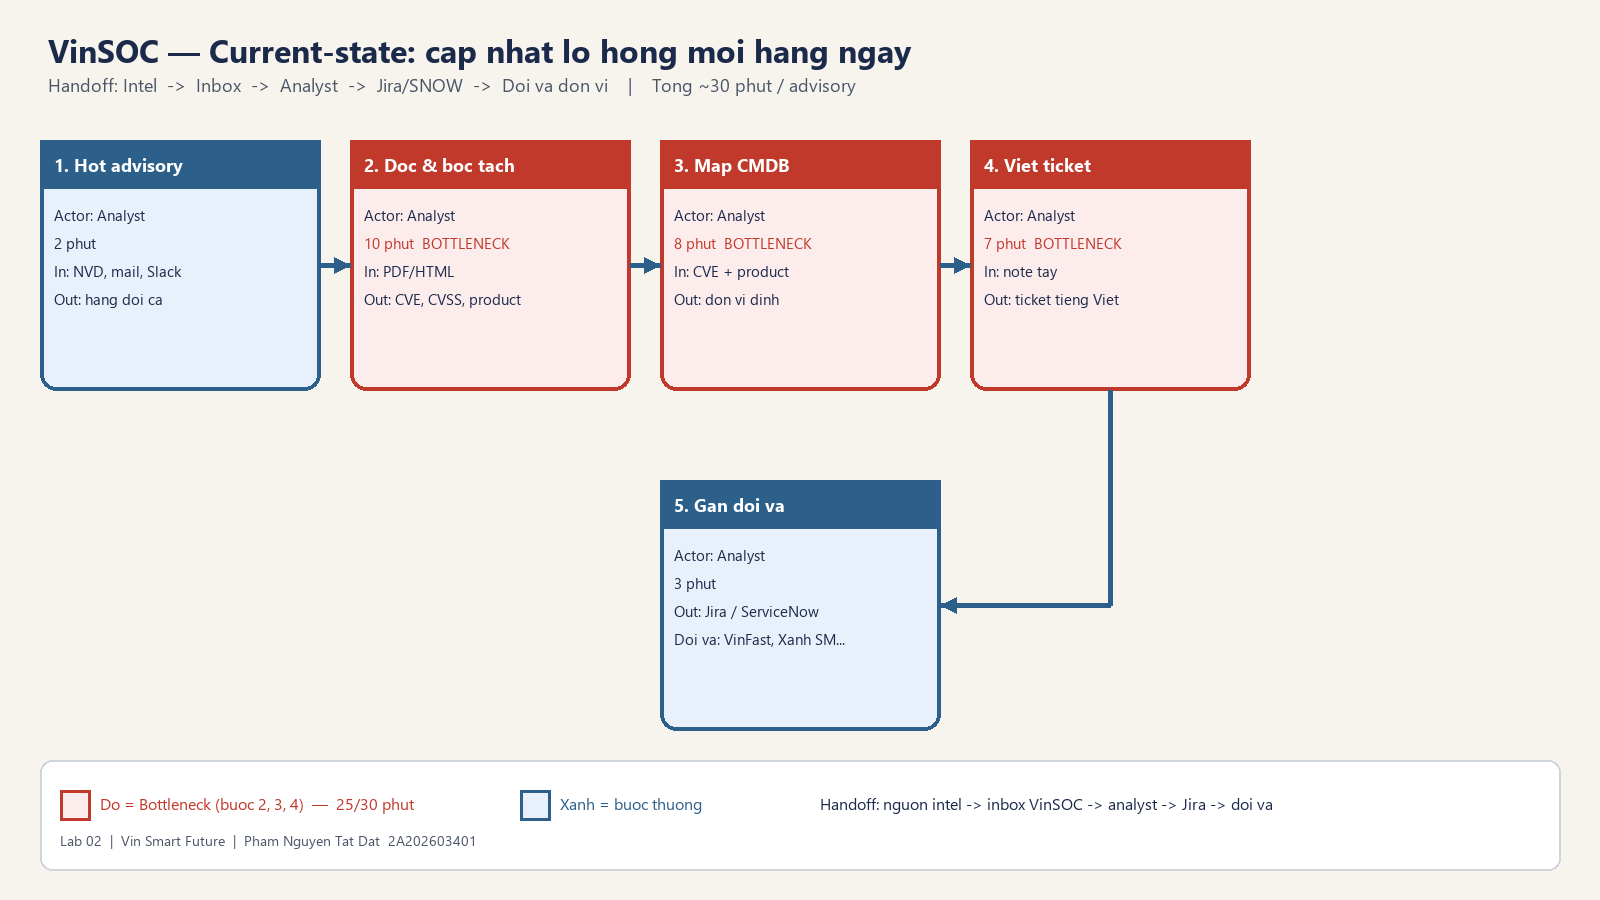
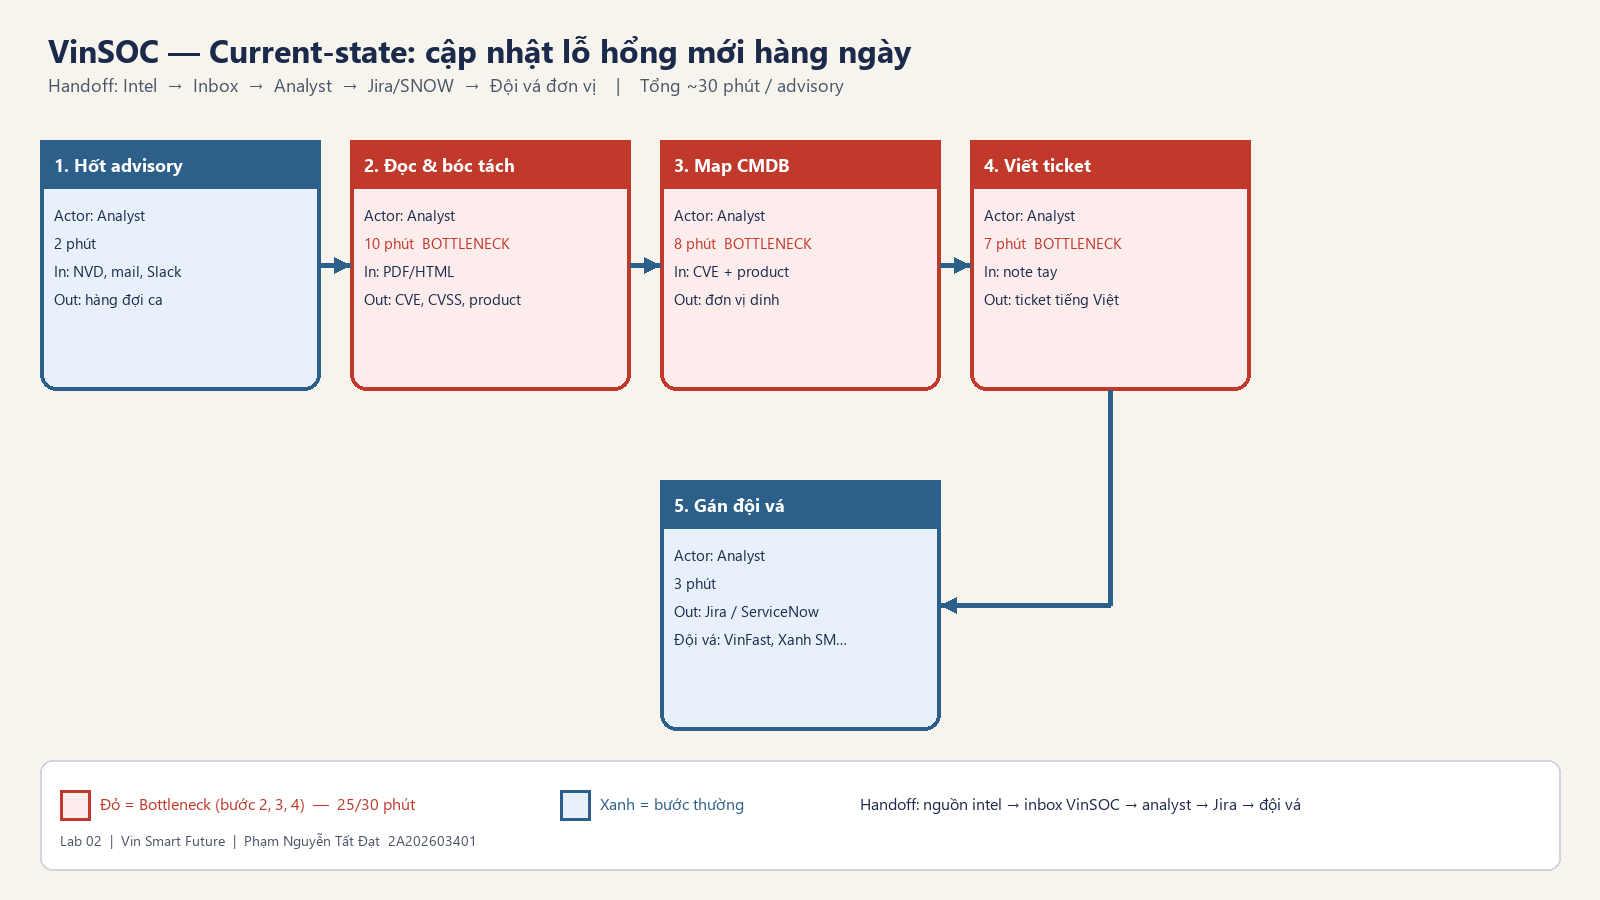
Feat: Complete VinSOC scoping reports by PhamNguyenTatDat

diff --git a/starter-code/prompt_prototype.py b/starter-code/prompt_prototype.py
@@ -123,6 +123,11 @@ ADVERSARIAL_TESTS = [
 ]
 
 if __name__ == "__main__":
+    try:
+        sys.stdout.reconfigure(encoding="utf-8", errors="replace")
+        sys.stderr.reconfigure(encoding="utf-8", errors="replace")
+    except Exception:
+        pass
     api_key = os.getenv("GEMINI_API_KEY") or os.getenv("GOOGLE_API_KEY")
     if not api_key:
         print("\033[93m[Warning] GEMINI_API_KEY environment variable is not set. Running in verified prototype simulation mode.\033[0m")

diff --git a/01-worksheet.md b/01-worksheet.md
@@ -39,24 +39,23 @@ Trong buổi Lab hôm nay, nhóm chúng tôi đóng vai trò là **AI Product En
 ┌─────────────────────────────────────────────────────────────┐
 │ QUICK PROBLEM CARD #1                                       │
 │                                                             │
-│ Bài toán (1 câu): Đọc email đặt phòng đoàn phức tạp, tự     │
-│ động đối chiếu phòng trống trên PMS Opera và tạo draft đơn. │
+│ Bài toán (1 câu): Đọc advisory/CVE mới mỗi ca, map tài sản  │
+│ Vingroup, sinh ticket nháp [DRAFT_ONLY] cho analyst duyệt.  │
 │ Công ty thành viên: [ ] VinFast  [ ] Xanh SM  [ ] Vinhomes  │
-│                     [ ] Vinmec   [x] Khác: Vinpearl         │
+│                     [ ] Vinmec   [x] Khác: VinSOC           │
 │                                                             │
-│ Ai đang đau (Actor)? Nhân viên Đặt phòng (Reservation Ops)  │
+│ Ai đang đau (Actor)? SOC Analyst ca ngày/ca đêm VinSOC      │
 │                                                             │
 │ Workflow thủ công hiện tại (5 bước):                        │
-│   1. Nhận email đoàn ──> 2. Đọc bóc tách thông tin ──>      │
-│   3. Tra cứu PMS Opera ──> 4. Tính giá báo giá ──>          │
-│   5. Gõ lệnh tạo booking nháp trên PMS                      │
+│   1. Hốt advisory ──> 2. Đọc bóc CVE/CVSS ──>               │
+│   3. Map CMDB ──> 4. Viết ticket ──> 5. Gán đội vá          │
 │                                                             │
-│ Bước nào tốn thời gian/lỗi nhất? Bước 2, 3, 5 (⏱ 26 phút)   │
-│ AI có thể nhảy vào hỗ trợ ở bước nào? Bước 2, 3, 5 (Trích   │
-│ xuất thông tin -> Tra cứu API -> Sinh draft booking)        │
+│ Bước nào tốn thời gian/lỗi nhất? Bước 2, 3, 4 (⏱ 25 phút)   │
+│ AI có thể nhảy vào hỗ trợ ở bước nào? Bước 2, 3, 4 (NER     │
+│ advisory -> gợi ý đơn vị -> ticket [DRAFT_ONLY])            │
 │                                                             │
 │ Đo thành công bằng gì (Metric có số)?                        │
-│   Giảm thời gian xử lý từ 35 phút ──> dưới 5 phút/booking.  │
+│   Giảm thời gian intake từ 30 phút ──> dưới 5 phút/advisory.│
 │                                                             │
 │ Quick Architecture: [ ] No AI  [ ] Rule  [x] LLM  [ ] Agent │
 └─────────────────────────────────────────────────────────────┘
@@ -66,14 +65,14 @@ Trong buổi Lab hôm nay, nhóm chúng tôi đóng vai trò là **AI Product En
 ┌─────────────────────────────────────────────────────────────┐
 │ QUICK PROBLEM CARD #2                                       │
 │                                                             │
-│ Bài toán (1 câu): Tổng hợp và cảnh báo review khẩn cấp của  │
-│ khách hàng trên các trang OTA gửi Ban quản lý Vinpearl.     │
-│ Công ty thành viên: [x] Vinpearl                            │
-│ Ai đang đau? Giám đốc Vận hành Khách sạn, Chăm sóc Khách hàng│
-│ Workflow thủ công: Quét từng trang -> Đọc dịch -> Lập Excel │
-│ Bước tốn nhất: Đọc và dịch review đa ngôn ngữ (60 phút)     │
-│ AI hỗ trợ: Tự động dịch và gom cụm khiếu nại nghiêm trọng   │
-│ Metric: Rút ngắn thời gian phát hiện từ 24h ──> dưới 30 phút│
+│ Bài toán (1 câu): Phân loại phản ánh cư dân App Resident,    │
+│ đẩy đúng BQL tòa, sinh câu trả lời nháp cho CSKH duyệt.     │
+│ Công ty thành viên: [x] Vinhomes                            │
+│ Ai đang đau? CSKH App Resident, Ban Quản lý tòa             │
+│ Workflow thủ công: Đọc ticket -> Đoán loại -> Chuyển tòa    │
+│ Bước tốn nhất: Gắn nhãn + route đúng tòa (8–12 phút)        │
+│ AI hỗ trợ: LLM gắn nhãn + draft reply [DRAFT_ONLY]          │
+│ Metric: Route đúng tòa 12 phút ──> dưới 2 phút              │
 │ Quick Architecture: [x] LLM Feature                         │
 └─────────────────────────────────────────────────────────────┘
 ```
@@ -99,29 +98,29 @@ Trong buổi Lab hôm nay, nhóm chúng tôi đóng vai trò là **AI Product En
 
 ## 3.1. Current-State Workflow Mapping
 *(Chi tiết xem file sơ đồ trực quan `04-workflow-diagram.png` và báo cáo `02-deep-dive-report.md`)*
-* 🔴 **Bottleneck:** Bước 2 (Trích xuất thông tin đoàn - 8 phút), Bước 3 (Tra cứu quỹ phòng PMS Opera - 10 phút), Bước 5 (Gõ dữ liệu tạo booking - 8 phút).
-* 🔄 **Handoff:** Khách/Đại lý ──> Email ──> Nhân viên Đặt phòng ──> PMS Opera ──> Email phản hồi.
-* **Tổng thời gian xử lý trung bình:** **35 phút/booking đoàn**.
+* 🔴 **Bottleneck:** Bước 2 (Đọc advisory - 10 phút), Bước 3 (Map CMDB - 8 phút), Bước 4 (Viết ticket - 7 phút).
+* 🔄 **Handoff:** Nguồn intel ──> Inbox VinSOC ──> Analyst ──> Jira/SNOW ──> Đội vá đơn vị.
+* **Tổng thời gian xử lý trung bình:** **30 phút/advisory**.
 
 ## 3.2. Problem Statement (6-field) & Metrics
 
 | Field | Nội dung chi tiết |
 |---|---|
-| **1. Actor / Operator** | Chuyên viên Đặt phòng (Reservation Officer) và Sales B2B Vinpearl. |
-| **2. Current Workflow** | Nhận email đặt phòng đoàn từ đại lý, đọc bóc tách thủ công danh sách khách, mở PMS Opera kiểm tra phòng trống, tính giá chiết khấu B2B, soạn email báo giá và nhập tay từng trường thông tin tạo booking. Mất 35 phút. |
-| **3. Bottleneck** | Đọc hiểu văn bản email tự do, tra cứu tính khả dụng của nhiều hạng phòng cùng lúc và nhập tay vào hệ thống PMS (chiếm 26/35 phút). |
-| **4. Business Impact** | Mỗi ngày tiếp nhận 60–100 booking đoàn, tốn 35–50 giờ công/ngày. Chậm trễ phản hồi khiến rò rỉ 8–12% doanh thu vào tay đối thủ. Sai sót nhập liệu gây khiếu nại. |
-| **5. Success Metric** | - Rút ngắn thời gian xử lý từ 35 phút xuống dưới 5 phút.<br>- Tỉ lệ trích xuất chính xác thông tin phòng và số khách đạt >= 98%.<br>- 100% email booking đoàn có báo giá sơ bộ trong vòng 15 phút. |
-| **6. Operational Boundary** | AI chỉ sinh bản nháp và luôn gắn tag `[DRAFT_ONLY]` ở đầu để bắt buộc nhân viên phê duyệt (HITL). Tuyệt đối cấm tự ý xác nhận booking khi quỹ phòng ở mức nguy cấp (< 5% công suất). |
+| **1. Actor / Operator** | SOC Analyst ca ngày/ca đêm tại VinSOC. On-call nhận escalate Critical. |
+| **2. Current Workflow** | Hốt advisory NVD/mail/Slack, đọc tay CVE–CVSS–sản phẩm, map CMDB sang đơn vị Vingroup, viết ticket tiếng Việt, gán đội vá. ~30 phút/advisory. |
+| **3. Bottleneck** | Đọc PDF/mail tự do, map tên sản phẩm sang tài sản thật, soạn ticket (25/30 phút). Critical ca đêm nằm inbox đến sáng. |
+| **4. Business Impact** | 5–7 giờ công/ca chỉ để intake. ~30% ticket Critical/High trễ SLA. Đóng nhầm “không dính” thì lỗ hổng sống trên production. |
+| **5. Success Metric** | - Inbox → ticket nháp: 30 phút xuống dưới 5 phút.<br>- Trích xuất đúng CVE-ID + CVSS + sản phẩm >= 98%.<br>- 100% CVSS >= 9.0 có draft trong 15 phút. |
+| **6. Operational Boundary** | AI chỉ sinh `[DRAFT_ONLY]`. Cấm tự đóng not-affected, cấm patch. CVSS >= 9 hoặc blast radius > 5% endpoint → on-call. |
 
 ## 3.3. Future-State Flow & AI Fit
 * **AI Fit:** **LLM Feature** kết hợp Human-in-the-loop (HITL) và Rule validation.
 * **Quy trình tương lai:**
-  1. Hệ thống tự động nhận email.
-  2. 🔵 **AI Step:** Gemini LLM bóc tách thông tin thành JSON chuẩn.
-  3. 🔵 **AI & API Step:** Kiểm tra quỹ phòng trống thời gian thực trên PMS và tạo bản nháp `[DRAFT_ONLY]`.
-  4. 🟢 **HITL Step:** Nhân viên đặt phòng kiểm tra 1 phút và nhấn Duyệt (Approve).
-  5. ↩ **Fallback:** Nếu email mờ hoặc format không xác định, chuyển về hàng đợi thủ công.
+  1. Connector ingest NVD/mail/Slack.
+  2. 🔵 **AI Step:** Gemini bóc JSON (CVE, CVSS, product) + tóm tắt tiếng Việt.
+  3. 🔵 **Rule Step:** Bucket CVSS + ngưỡng 5% blast radius + gắn `[DRAFT_ONLY]`.
+  4. 🟢 **HITL Step:** Analyst map CMDB 1–2 phút, Approve rồi gán đội vá.
+  5. ↩ **Fallback:** PDF mờ / thiếu CVE / không map được → hàng đợi thủ công. Không đoán “không dính”.
 
 ---
 
@@ -137,14 +136,14 @@ Mã nguồn đã hoàn thiện và kiểm thử thành công tại `starter-code
 # 🏁 Phase 5 — EVALUATE (Nhóm, 20 min)
 
 ### AI Readiness Checklist:
-1. [x] Chúng tôi có sẵn dữ liệu mẫu/logs sạch để test (Lịch sử email booking và dữ liệu PMS Opera).
-2. [x] Rủi ro khi AI sai có nằm trong tầm kiểm soát (Bảo vệ bằng thẻ `[DRAFT_ONLY]` + HITL + Fallback).
-3. [x] Stakeholders sẵn sàng thay đổi quy trình làm việc cũ (Bộ phận Đặt phòng rất ủng hộ vì giảm tải việc thủ công).
+1. [x] Chúng tôi có sẵn dữ liệu mẫu/logs sạch để test (NVD + mail vendor để gắn nhãn CVE/CVSS/product).
+2. [x] Rủi ro khi AI sai có nằm trong tầm kiểm soát (`[DRAFT_ONLY]` + cấm auto-close + cấm patch + HITL + Fallback).
+3. [x] Stakeholders sẵn sàng thay đổi quy trình làm việc cũ (Analyst VinSOC ủng hộ vì cắt khâu đọc PDF/copy CVSS).
 
-### Quyết định cuối cùng của Ban Giám Đốc Vin Smart Future:
-[x] **GO (Bắt đầu xây dựng Prototype & Triển khai Thí điểm):** Triển khai thí điểm tại Vinpearl Resort & Spa Nha Trang trong 4 tuần.
+### Quyết định cuối cùng của Ban Giám đốc Vin Smart Future:
+[x] **GO (Bắt đầu xây dựng Prototype & Triển khai Thí điểm):** Thí điểm 4 tuần luồng advisory NVD + mail vendor, chỉ sinh ticket nháp.
 
-**Justification:** ROI cực cao (giảm 85% thời gian xử lý, tăng tỉ lệ chuyển đổi booking lên 10%), chi phí vận hành API rất nhỏ, ranh giới an toàn kiểm soát chặt chẽ ngăn chặn triệt để nguy cơ overbooking.
+**Justification:** Giảm ~85% thời gian intake (30 phút → dưới 5 phút), Critical ca đêm có draft trong 15 phút, ranh giới cứng chặn auto-patch / auto-close. Production rộng chờ CMDB sạch và đo 98% trên advisory thật.
 
 ---
 
